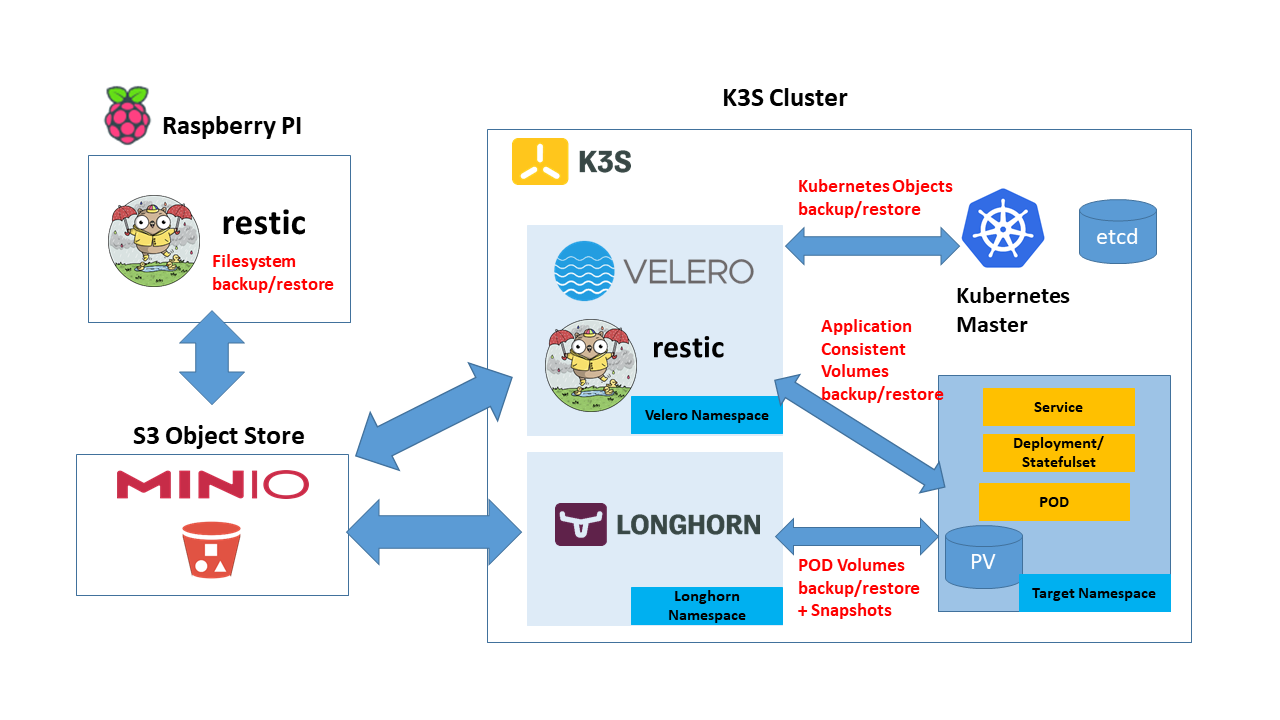
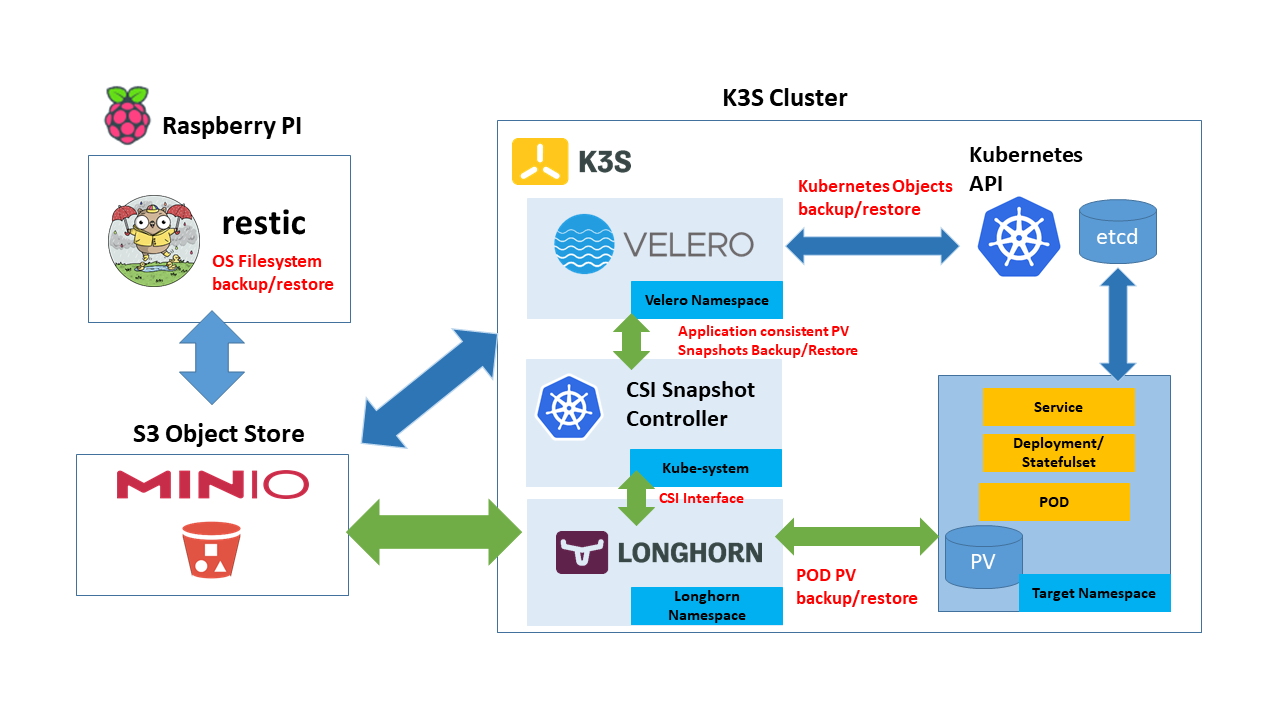
Updating documentation

Changed region(s): [[0.25, 0.1833, 0.9062, 0.8556], [0.0938, 0.5806, 0.25, 0.6417], [0.1562, 0.3361, 0.25, 0.3972]]

diff --git a/docs/_docs/backup.md b/docs/_docs/backup.md
@@ -2,7 +2,7 @@
 title: Backup & Restore
 permalink: /docs/backup/
 description: How to deploy a backup solution based on Velero and Restic in our Raspberry Pi Kubernetes Cluster.
-last_modified_at: "10-10-2022"
+last_modified_at: "11-10-2022"
 ---
 
 ## Backup Architecture and Design
@@ -44,28 +44,31 @@ The backup architecture is the following:
 
   Longhorn does support, from release 1.2.4, [Kubernetes CSI snapshot API](https://kubernetes.io/docs/concepts/storage/volume-snapshots/) to take snapshots/backups programmatically. See Longhorn documentation: [CSI Snapshot Support](https://longhorn.io/docs/1.3.1/snapshots-and-backups/csi-snapshot-support/).
 
-  Enabling CSI snaphot support in Longhorn allows to programmatically backups and so orchestrate consistent backups:
+  Wiht this functionality application-consistent backups can be orchestrated:
+
   ```shell
   # Freeze POD's filesystem
   kubectl exec pod -- app_feeze_commandç
-  # Take snapshot using CSI Snapshot
+  # Take snapshot using CSI Snapshot CRDs
   kubectl apply -f volume_snapshot.yml
   # wait till snapshot finish
   # Unfreeze POD's filesystem
   kubectl exec pod -- app_unfreeze_command
   ```
 
-  Velero also support CSI snapshot API to take Persistent Volumes snapshots, through CSI provider, Longorn, when backing-up the PODs. See Velero [CSI snaphsot support documentation](https://velero.io/docs/v1.9/csi/).
+  Velero also support CSI snapshot API to take Persistent Volumes snapshots, through CSI provider, Longorn, when backing-up the PODs. See Velero [CSI snapshot support documentation](https://velero.io/docs/v1.9/csi/).
 
-  {{site.data.alerts.note}}
-
-  Velero also supports, Persistent Volumes backup/restore procedures using `restic` as backup engine (https://velero.io/docs/v1.9/restic/) using the same S3 backend configured within Velero for backing up the cluster configuration. But restic support will be disabled in Velero, instead CSI snapshots will be used.
-
-  {{site.data.alerts.end}}
+  Integrating Container Storage Interface (CSI) snapshot support into Velero and Longhorn enables Velero to backup and restore CSI-backed volumes using the [Kubernetes CSI Snapshot feature](https://kubernetes.io/docs/concepts/storage/volume-snapshots/).
 
   For orchestrating application-consistent backups, Velero supports the definition of [backup hooks](https://velero.io/docs/v1.9/backup-hooks/), commands to be executed before and after the backup, that can be configured at POD level through annotations.
 
-  Integrating Container Storage Interface (CSI) snapshot support into Velero and Longhorn enables Velero to backup and restore CSI-backed volumes using the [Kubernetes CSI Snapshot feature](https://kubernetes.io/docs/concepts/storage/volume-snapshots/).
+  So Velero, with its buil-in functionality, CSI snapshot support and backup hooks, is able to perform the orchestration of application-consistent backups. Velero delegates the actual backup/restore of PV to the CSI provider, Longhorn.
+
+  {{site.data.alerts.note}}
+
+  Velero also supports, Persistent Volumes backup/restore procedures with [`restic` as backup engine](https://velero.io/docs/v1.9/restic/) and using the same S3 backend configured within Velero for backing up the cluster configuration. Velero restic support will be disabled whe deploying Velero, instead CSI snapshots will be used.
+
+  {{site.data.alerts.end}}
 
 - Minio as backup backend
 
@@ -494,7 +497,7 @@ Longhorn 1.3.1 CSI Snapshots support is compatible with [kubernetes-csi/external
 
 - Step 1. Install the Snapshot CRDs.
 
-  Download the yaml files from https://github.com/kubernetes-csi/external-snapshotter/tree/release-4.0/client/config/crd.
+  Download the yaml files from [https://github.com/kubernetes-csi/external-snapshotter/tree/release-4.0/client/config/crd](https://github.com/kubernetes-csi/external-snapshotter/tree/release-4.0/client/config/crd).
 
   This can be done using `svn` export command
 
@@ -506,6 +509,8 @@ Longhorn 1.3.1 CSI Snapshots support is compatible with [kubernetes-csi/external
   ```
 
 - Step 2. Deploy Snapshot Controller.
+
+  Download the yaml files from [https://github.com/kubernetes-csi/external-snapshotter/tree/release-4.0/deploy/kubernetes/snapshot-controller](https://github.com/kubernetes-csi/external-snapshotter/tree/release-4.0/deploy/kubernetes/snapshot-controller)
 
   Extract manifest files
   ```shell
@@ -613,7 +618,13 @@ defaultSettings:
 ### Scheduling longhorn volumes backup
 
 A Longhorn recurring job can be created for scheduling periodic backups/snapshots of volumes.
-See details in [documentation](https://longhorn.io/docs/1.2.3/snapshots-and-backups/scheduling-backups-and-snapshots/).
+See details in [documentation](https://longhorn.io/docs/1.3.1/snapshots-and-backups/scheduling-backups-and-snapshots/).
+
+{{site.data.alerts.note}}
+
+Since full cluster backup will be scheduled using Velero, including Longhorn's Persistent Volumes using CSI Snapshots, configuring this job is not needed.
+
+{{site.data.alerts.end}}
 
 - Create `RecurringJob` manifest resource
 
@@ -643,13 +654,6 @@ See details in [documentation](https://longhorn.io/docs/1.2.3/snapshots-and-back
   ```shell  
   kubectl apply -f recurring_job.yml
   ```
-
-{{site.data.alerts.note}}
-
-Since full cluster backup will be scheduled using Velero, including Longhorn's Persistent Volumes using CSI Snapshots, the previous job is not needed.
-
-{{site.data.alerts.end}}
-
 
 ### Configure Longhorn CSI Snapshots
 
@@ -689,13 +693,13 @@ VolumeSnapshotClass objects from CSI Snapshot API need to be configured
 
 Velero defines a set of Kuberentes' CRDs (Custom Resource Definition) and Controllers that process those CRDs to perform backups and restores.
 
-Velero as well provides a CLI to execute backup/restore commands using Kuberentes API. More details in official [documentation](https://velero.io/docs/v1.7/how-velero-works/)
+Velero as well provides a CLI to execute backup/restore commands using Kuberentes API. More details in official [documentation](https://velero.io/docs/v1.9/how-velero-works/)
 
 The complete backup workflow is the following:
 
 ![velero-backup-process](/assets/img/velero-backup-process.png)
 
-As storage provider, Minio will be used. See [Velero's installation documentation using Minio as backend](https://velero.io/docs/v1.7/contributions/minio/).
+As storage provider, Minio will be used. See [Velero's installation documentation using Minio as backend](https://velero.io/docs/v1.9/contributions/minio/).
 
 
 ### Configuring Minio bucket and user for Velero
@@ -806,18 +810,12 @@ Installation using `Helm` (Release 3):
       volumeMounts:
         - mountPath: /target
           name: plugins      
-  # Upgrading CRDs is causing issues
-  upgradeCRDs: false
   # Use a kubectl image supporting ARM64
   # bitnami default is not suppporting it
   kubectl:
      image:
        repository: ricsanfre/docker-kubectl-helm
        tag: latest
-  # Disable volume snapshots. Longhorn deals with them
-  snapshotsEnabled: false
-  # Do not deploy restic for backing up volumes
-  deployRestic: false
   # Minio storage configuration
   configuration:
     # Cloud provider being used
@@ -880,9 +878,9 @@ Installation using `Helm` (Release 3):
 
   {{site.data.alerts.note}}
 
-  Official docker image `velero/velero-plugin-for-csi` does not support ARM64 architecture yet.
+  Official docker image `velero/velero-plugin-for-csi` does not support ARM64 architecture yet. See [velero open issue](https://github.com/vmware-tanzu/velero/issues/4303)
 
-  I have created my onwn docker image supporting multiarchitecture (ARM64 and AMD64): `ricsanfre/velero-plugin-for-csi`.
+  Meanwhile, from my own fork of the project I have created a docker image supporting multiarchitecture (ARM64 and AMD64): `ricsanfre/velero-plugin-for-csi`.
 
   {{site.data.alerts.end}}
 
@@ -895,7 +893,6 @@ Installation using `Helm` (Release 3):
 
   ```yml
   # Upgrading CRDs is causing issues with bitami docker images
-  upgradeCRDs: true
   # Use a kubectl image supporting ARM64
   # bitnami default is not suppporting it
   kubectl:
@@ -988,7 +985,6 @@ Installation using `Helm` (Release 3):
       labels:
           app: nginx
       annotations:
-          backup.velero.io/backup-volumes: nginx-logs
           pre.hook.backup.velero.io/container: fsfreeze
           pre.hook.backup.velero.io/command: '["/sbin/fsfreeze", "--freeze", "/var/log/nginx"]'
           post.hook.backup.velero.io/container: fsfreeze
@@ -999,7 +995,7 @@ Installation using `Helm` (Release 3):
           persistentVolumeClaim:
               claimName: nginx-logs
       containers:
-          - image: nginx:1.17.6
+        - image: nginx:1.17.6
           name: nginx
           ports:
               - containerPort: 80
@@ -1007,7 +1003,7 @@ Installation using `Helm` (Release 3):
               - mountPath: "/var/log/nginx"
               name: nginx-logs
               readOnly: false
-          - image: ubuntu:bionic
+        - image: ubuntu:bionic
           name: fsfreeze
           securityContext:
               privileged: true
@@ -1052,10 +1048,10 @@ Installation using `Helm` (Release 3):
   # touch /var/log/nginx/testing
   ```
 
-  4) Create a backup for any object that matches the app=nginx label selector:
+  4) Create a backup for any object included in nginx-example namespace:
   
   ```shell
-  velero backup create nginx-backup --selector app=nginx 
+  velero backup create nginx-backup --include-namespaces nginx-example --wait  
   ```
 
   5) Simulate a disaster:
@@ -1107,7 +1103,7 @@ Set up daily full backup can be on with velero CLI
 ```shell
 velero schedule create full --schedule "0 4 * * *"
 ```
-Or creating a 'Schedule' [kubernetes resource](https://velero.io/docs/v1.7/api-types/schedule/):
+Or creating a 'Schedule' [kubernetes resource](https://velero.io/docs/v1.9/api-types/schedule/):
 
 ```yml
 apiVersion: velero.io/v1

diff --git a/docs/_docs/index.md b/docs/_docs/index.md
@@ -94,30 +94,30 @@ The software used and the latest version tested of each component
 | OS | Ubuntu | 20.04.3 | OS need to be tweaked for Raspberry PI when booting from external USB  |
 | Control | Ansible | 2.12.1  | |
 | Control | cloud-init | 21.4 | version pre-integrated into Ubuntu 20.04 |
-| Kubernetes | K3S | v1.24.4 | K3S version|
+| Kubernetes | K3S | v1.24.6 | K3S version|
 | Kubernetes | Helm | v3.6.3 ||
 | Metrics | Kubernetes Metrics Server | v0.5.2 | version pre-integrated into K3S |
-| Computing | containerd | v1.5.13-k3s1 | version pre-integrated into K3S |
-| Networking | Flannel | v0.19.1 | version pre-integrated into K3S |
+| Computing | containerd | v1.6.8-k3s1 | version pre-integrated into K3S |
+| Networking | Flannel | v0.19.2 | version pre-integrated into K3S |
 | Networking | CoreDNS | v1.9.1 | version pre-integrated into K3S |
-| Networking | Metal LB | v0.13.4 | Helm chart version:  metallb-0.13.4 |
-| Service Mesh | Linkerd | v2.11.4 | Helm chart version: linkerd2-2.11.4 |
-| Service Proxy | Traefik | v2.8.4 | Helm chart: traefik-10.24.2  |
+| Networking | Metal LB | v0.13.5 | Helm chart version:  metallb-0.13.5 |
+| Service Mesh | Linkerd | v2.12.1 | Helm chart version: linkerd-control-plane-1.9.3 |
+| Service Proxy | Traefik | v2.9.1 | Helm chart: traefik-13.0.0  |
 | Storage | Longhorn | v1.3.1 | Helm chart version: longhorn-1.3.1 |
 | SSL Certificates | Certmanager | v1.9.1 | Helm chart version: cert-manager-v1.9.1  |
 | Logging | ECK Operator |  2.4.0 | Helm chart version: eck-operator-2.4.0 |
 | Logging | Elastic Search | 8.1.2 | Deployed with ECK Operator |
 | Logging | Kibana | 8.1.2 | Deployed with ECK Operator |
-| Logging | Fluentbit | 1.9.7 | Helm chart version: fluent-bit-0.20.6 |
+| Logging | Fluentbit | 1.9.9 | Helm chart version: fluent-bit-0.20.9 |
 | Logging | Fluentd | 1.15.2 | Helm chart version: 0.3.9. [Custom docker image](https://github.com/ricsanfre/fluentd-aggregator) from official v1.15.2|
-| Monitoring | Kube Prometheus Stack | 0.58.0 | Helm chart version: kube-prometheus-stack-39.11.0 |
-| Monitoring | Prometheus Operator | 0.58.0 | Installed by Kube Prometheus Stack. Helm chart version: kube-prometheus-stack-39.11.0   |
-| Monitoring | Prometheus | 2.37 | Installed by Kube Prometheus Stack. Helm chart version: kube-prometheus-stack-39.11.0 |
-| Monitoring | AlertManager | 0.24 | Installed by Kube Prometheus Stack. Helm chart version: kube-prometheus-stack-39.11.0 |
-| Monitoring | Grafana | 9.0.5 | Helm chart version grafana-6.32.10. Installed as dependency of Kube Prometheus Stack chart. Helm chart version: kube-prometheus-stack-39.11.0 |
+| Monitoring | Kube Prometheus Stack | 0.60.1 | Helm chart version: kube-prometheus-stack-41.0.0 |
+| Monitoring | Prometheus Operator | 0.59.2 | Installed by Kube Prometheus Stack. Helm chart version: kube-prometheus-stack-41.0.0   |
+| Monitoring | Prometheus | 2.39 | Installed by Kube Prometheus Stack. Helm chart version: kube-prometheus-stack-41.0.0 |
+| Monitoring | AlertManager | 0.24 | Installed by Kube Prometheus Stack. Helm chart version: kube-prometheus-stack-41.0.0 |
+| Monitoring | Grafana | 9.1.7 | Helm chart version grafana-6.32.10. Installed as dependency of Kube Prometheus Stack chart. Helm chart version: kube-prometheus-stack-39.11.0 |
 | Monitoring | Prometheus Node Exporter | 1.3.1 | Helm chart version: prometheus-node-exporter-3.3.1. Installed as dependency of Kube Prometheus Stack chart. Helm chart version: kube-prometheus-stack-39.11.0 |
-| Monitoring | Prometheus Elasticsearch Exporter | 1.5.0 | Helm chart version: prometheus-elasticsearch-exporter-4.14.0 |
+| Monitoring | Prometheus Elasticsearch Exporter | 1.5.0 | Helm chart version: prometheus-elasticsearch-exporter-4.15.0 |
 | Backup | Minio | RELEASE.2022-09-22T18-57-27Z | |
 | Backup | Restic | 0.12.1 | |
-| Backup | Velero | 1.9.1 | Helm chart version: velero-2.31.3 |
+| Backup | Velero | 1.9.2 | Helm chart version: velero-2.31.9 |
 {: .table }

diff --git a/docs/_docs/longhorn.md b/docs/_docs/longhorn.md
@@ -2,7 +2,7 @@
 title: Distributed Storage (Longhorn)
 permalink: /docs/longhorn/
 description: How to deploy distributed block storage solution based on Longhorn in our Raspberry Pi Kubernetes Cluster.
-last_modified_at: "08-10-2022"
+last_modified_at: "11-10-2022"
 ---
 
 K3s comes with a default [Local Path Provisioner](https://rancher.com/docs/k3s/latest/en/storage/) that allows creating a PersistentVolumeClaim backed by host-based storage. This means the volume is using storage on the host where the pod is located. If the POD need to be started on a different node it won't be able to access the data.
@@ -69,7 +69,7 @@ Installation using `Helm` (Release 3):
 
   {{site.data.alerts.note}}
 
-  If S3 storage server backup target need to be configured other options need to be passed to helm chart. See [Backup documentation](/docs/backup/) to how to configure Longhorn backup.
+  To enable backup to S3 storage server, a backup target need to be configured and other parameters need to be passed to helm chart. See [Backup documentation](/docs/backup/) to know how to configure Longhorn backup.
 
   {{site.data.alerts.end}}
 
